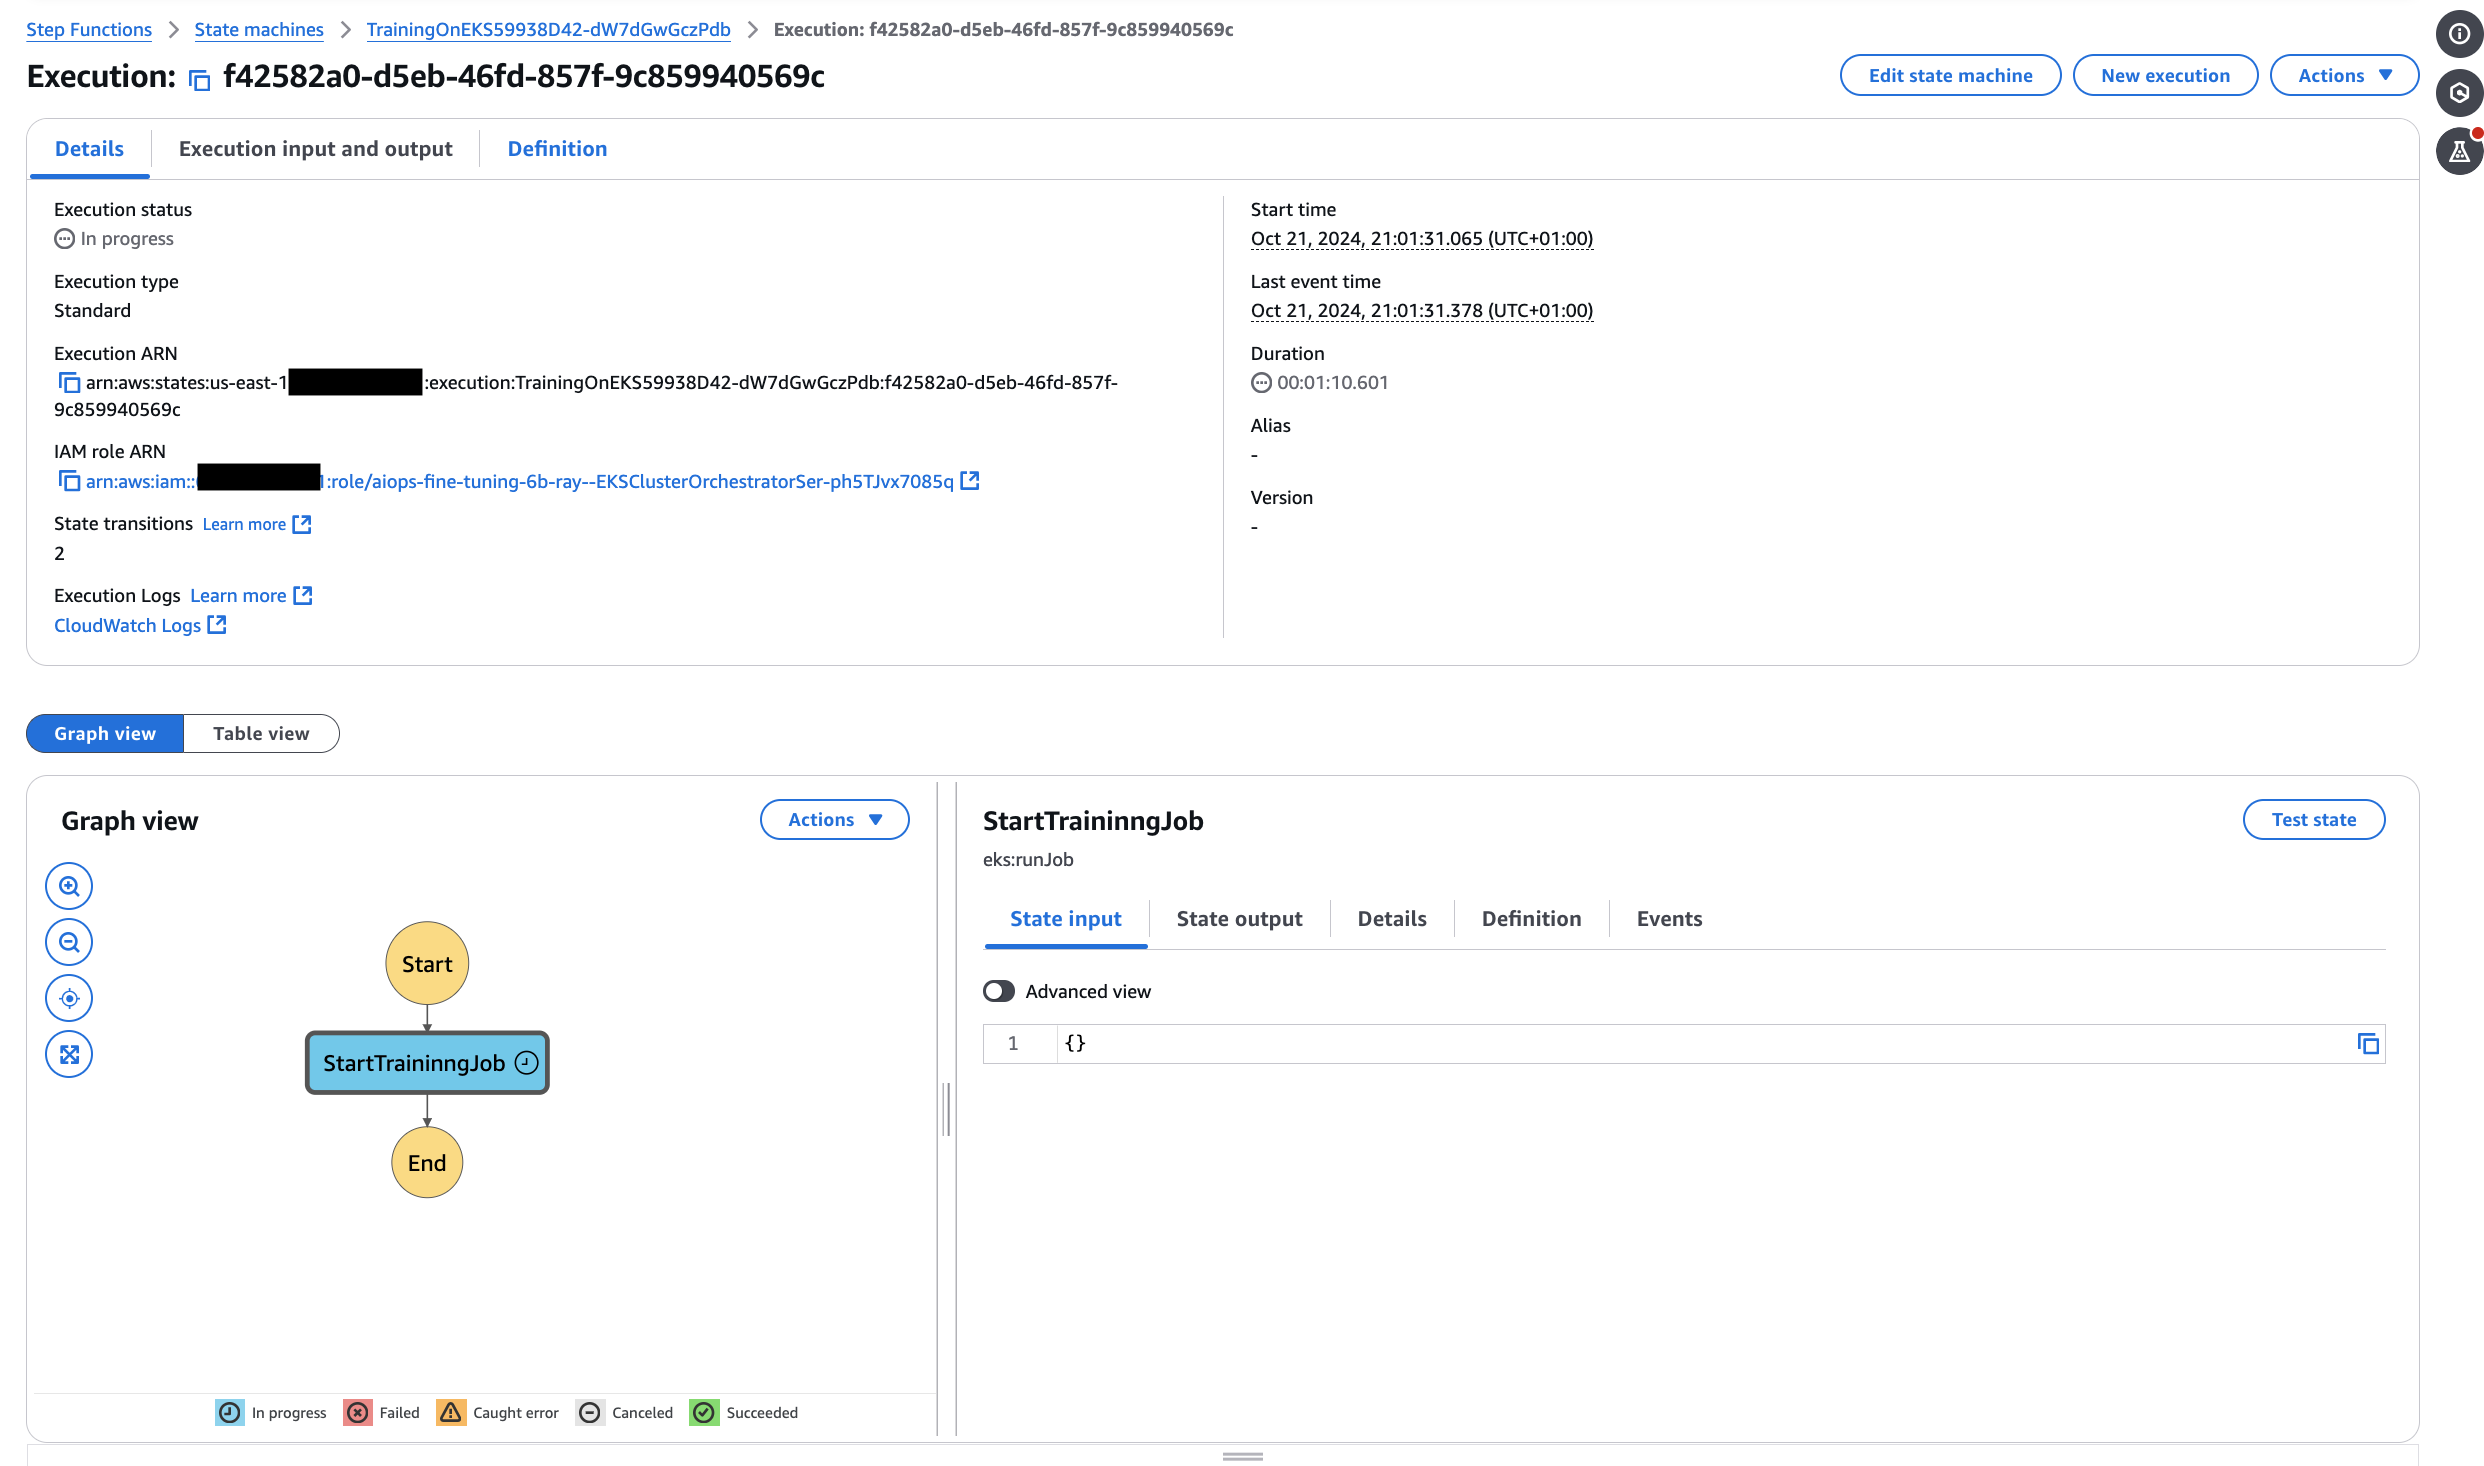
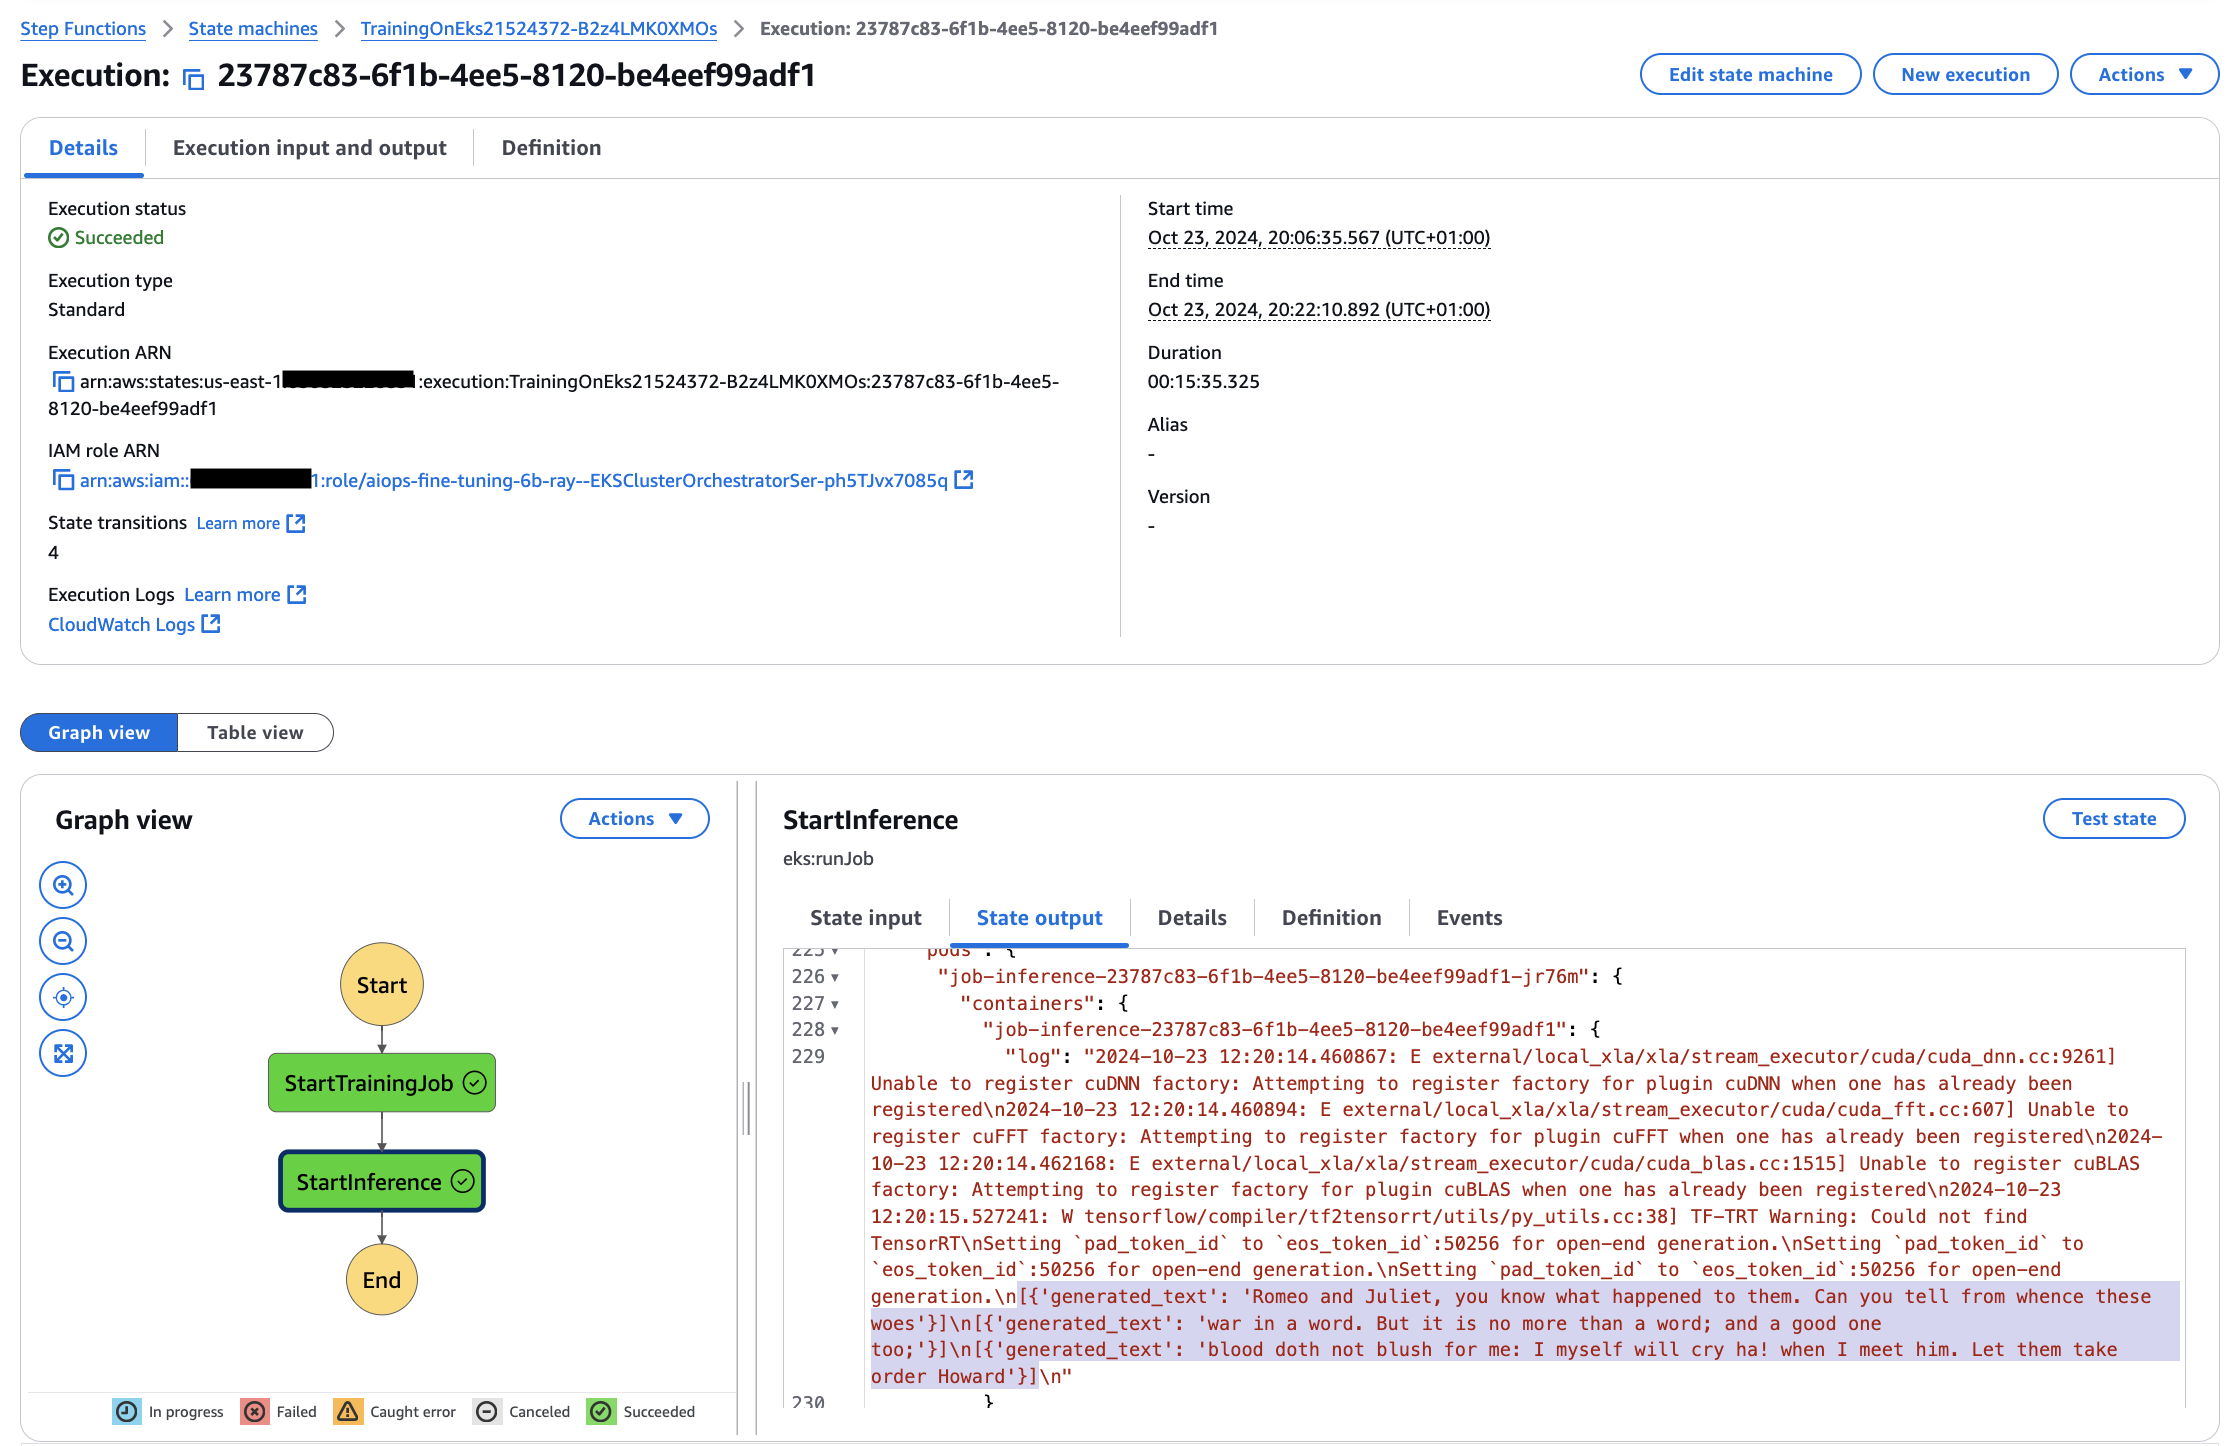
feat: ray orchestrator - add inference (#257)
* add inference

* add persistent volume claim

* add inference script

* update tests

* update docs

* update manifests

* update screenshots

diff --git a/modules/eks/ray-orchestrator/ray_orchestrator_stack.py b/modules/eks/ray-orchestrator/ray_orchestrator_stack.py
@@ -3,7 +3,7 @@
 
 import logging
 import os
-from typing import Any, cast
+from typing import Any, Optional, cast
 
 from aws_cdk import Duration, Stack, Tags
 from aws_cdk import aws_eks as eks
@@ -36,6 +36,8 @@ class RayOrchestrator(Stack):
         step_function_timeout: int,
         service_account_name: str,
         service_account_role_arn: str,
+        pvc_name: Optional[str],
+        dra_export_path: str,
         **kwargs: Any,
     ) -> None:
         self.project_name = project_name
@@ -66,8 +68,12 @@ class RayOrchestrator(Stack):
             kubectl_layer=KubectlV29Layer(self, "Kubectlv29Layer"),
         )
 
+        service_account_role = iam.Role.from_role_arn(self, "ServiceAccountRole", service_account_role_arn)
+
         with open(os.path.join(project_dir, "scripts/training-6B.py"), "r") as f:
-            ray_job_file = f.read()
+            training_job_file = f.read()
+        with open(os.path.join(project_dir, "scripts/inference-6B.py"), "r") as f:
+            inference_job_file = f.read()
 
         cluster.add_manifest(
             "RayJobConfigMap",
@@ -78,18 +84,19 @@ class RayOrchestrator(Stack):
                     "name": "rayjob",
                     "namespace": namespace_name,
                 },
-                "data": {"job.py": ray_job_file},
+                "data": {
+                    "training-6B.py": training_job_file,
+                    "inference-6B.py": inference_job_file,
+                },
             },
         )
 
-        service_account_role = iam.Role.from_role_arn(self, "ServiceAccountRole", service_account_role_arn)
-
-        body = {
+        training_body = {
             "apiVerson": "batch/v1",
             "kind": "Job",
             "metadata": {
                 "namespace": namespace_name,
-                "name.$": "States.Format('job-{}', $$.Execution.Name)",
+                "name.$": "States.Format('job-training-{}', $$.Execution.Name)",
             },
             "spec": {
                 "backoffLimit": 1,
@@ -99,7 +106,7 @@ class RayOrchestrator(Stack):
                         "serviceAccountName": service_account_name,
                         "containers": [
                             {
-                                "name.$": "States.Format('job-{}', $$.Execution.Name)",
+                                "name.$": "States.Format('job-training-{}', $$.Execution.Name)",
                                 "image": "python:3.9.19",
                                 "command": [
                                     "sh",
@@ -107,7 +114,7 @@ class RayOrchestrator(Stack):
                                     (
                                         'pip install ray"[default,client]"==2.30.0 && cd /home/ray/sample/ && '
                                         "ray job submit --address ray://kuberay-head-svc:10001 "
-                                        '--working-dir="." -- python job.py'
+                                        '--working-dir="." -- python training-6B.py'
                                     ),
                                 ],
                                 "volumeMounts": [{"name": "code-sample", "mountPath": "/home/ray/sample"}],
@@ -116,7 +123,10 @@ class RayOrchestrator(Stack):
                         "volumes": [
                             {
                                 "name": "code-sample",
-                                "configMap": {"name": "rayjob", "items": [{"key": "job.py", "path": "job.py"}]},
+                                "configMap": {
+                                    "name": "rayjob",
+                                    "items": [{"key": "training-6B.py", "path": "training-6B.py"}],
+                                },
                             }
                         ],
                     },
@@ -124,7 +134,62 @@ class RayOrchestrator(Stack):
             },
         }
 
-        ek_run_job_state = sfn.CustomState(
+        volumes = [
+            {
+                "name": "code-sample",
+                "configMap": {"name": "rayjob", "items": [{"key": "inference-6B.py", "path": "inference-6B.py"}]},
+            }
+        ]
+        volume_mounts = [{"name": "code-sample", "mountPath": "/home/ray/sample"}]
+
+        # Mount the PVC to inference container to read model artifacts
+        if pvc_name:
+            volumes.append({"name": "persistent-storage", "persistentVolumeClaim": {"claimName": pvc_name}})
+            # subPath should never start with `/`
+            volume_mounts.append(
+                {"mountPath": dra_export_path, "name": "persistent-storage", "subPath": dra_export_path[1:]}
+            )
+
+        inference_body = {
+            "apiVerson": "batch/v1",
+            "kind": "Job",
+            "metadata": {
+                "namespace": namespace_name,
+                "name.$": "States.Format('job-inference-{}', $$.Execution.Name)",
+            },
+            "spec": {
+                "backoffLimit": 1,
+                "template": {
+                    "spec": {
+                        "restartPolicy": "Never",
+                        "serviceAccountName": service_account_name,
+                        "containers": [
+                            {
+                                "name.$": "States.Format('job-inference-{}', $$.Execution.Name)",
+                                "image": "rayproject/ray-ml:2.30.0",
+                                "command": [
+                                    "sh",
+                                    "-c",
+                                    ("cd /home/ray/sample/ && " "python inference-6B.py"),
+                                ],
+                                "volumeMounts": volume_mounts,
+                            }
+                        ],
+                        "volumes": volumes,
+                        "nodeSelector": {"usage": "gpu"},
+                        "tolerations": [
+                            {
+                                "key": "nvidia.com/gpu",
+                                "value": "true",
+                                "effect": "NoSchedule",
+                            }
+                        ],
+                    },
+                },
+            },
+        }
+
+        ek_run_training_job_state = sfn.CustomState(
             self,
             "StartTrainingJob",
             state_json={
@@ -136,7 +201,24 @@ class RayOrchestrator(Stack):
                     "CertificateAuthority": eks_cert_auth_data,
                     "Endpoint": eks_cluster_endpoint,
                     "LogOptions": {"RetrieveLogs": True},
-                    "Job": body,
+                    "Job": training_body,
+                },
+            },
+        )
+
+        ek_run_inference_job_state = sfn.CustomState(
+            self,
+            "StartInference",
+            state_json={
+                "Type": "Task",
+                "Resource": "arn:aws:states:::eks:runJob.sync",
+                "Parameters": {
+                    "ClusterName": eks_cluster_name,
+                    "Namespace": namespace_name,
+                    "CertificateAuthority": eks_cert_auth_data,
+                    "Endpoint": eks_cluster_endpoint,
+                    "LogOptions": {"RetrieveLogs": True},
+                    "Job": inference_body,
                 },
             },
         )
@@ -146,7 +228,9 @@ class RayOrchestrator(Stack):
         self.sm = sfn.StateMachine(  # noqa: F841
             self,
             "TrainingOnEks",
-            definition_body=sfn.DefinitionBody.from_chainable(sfn.Chain.start(ek_run_job_state)),
+            definition_body=sfn.DefinitionBody.from_chainable(
+                sfn.Chain.start(ek_run_training_job_state).next(ek_run_inference_job_state)
+            ),
             timeout=Duration.minutes(int(step_function_timeout)),
             logs=sfn.LogOptions(destination=self.log_group, level=sfn.LogLevel.ALL),
             role=service_account_role,

diff --git a/modules/eks/ray-orchestrator/tests/test_stack.py b/modules/eks/ray-orchestrator/tests/test_stack.py
@@ -77,6 +77,8 @@ def ray_orchestrator_stack(rbac_stack, stack_defaults) -> cdk.Stack:
     step_function_timeout = 60
     service_account_name = "service-account"
     service_account_role_arn = "arn:aws:iam::123456789012:role/XXXXXXXX"
+    pvc_name = "pvc"
+    dra_export_path = "/ray/export"
 
     return ray_orchestrator_stack.RayOrchestrator(
         scope=app,
@@ -93,6 +95,8 @@ def ray_orchestrator_stack(rbac_stack, stack_defaults) -> cdk.Stack:
         step_function_timeout=step_function_timeout,
         service_account_name=service_account_name,
         service_account_role_arn=service_account_role_arn,
+        pvc_name=pvc_name,
+        dra_export_path=dra_export_path,
         env=cdk.Environment(
             account=os.environ["CDK_DEFAULT_ACCOUNT"],
             region=os.environ["CDK_DEFAULT_REGION"],

diff --git a/modules/eks/ray-orchestrator/scripts/inference-6B.py b/modules/eks/ray-orchestrator/scripts/inference-6B.py
@@ -1,0 +1,22 @@
+import glob
+
+import torch
+from transformers import AutoTokenizer, GPTJForCausalLM, pipeline
+
+# Get the latest checkpoint path
+checkpoint_path = list(glob.iglob("/ray/export/TorchTrainer_*/TorchTrainer_*/checkpoint_*/checkpoint"))[-1]
+
+model = GPTJForCausalLM.from_pretrained(checkpoint_path)
+tokenizer = AutoTokenizer.from_pretrained(checkpoint_path)
+
+pipe = pipeline(
+    model=model,
+    tokenizer=tokenizer,
+    task="text-generation",
+    torch_dtype=torch.float16,
+    device_map="auto",
+)
+
+# Generate from prompts!
+for sentence in pipe(["Romeo and Juliet", "war", "blood"], do_sample=True, min_length=20):
+    print(sentence)

diff --git a/modules/eks/ray-orchestrator/app.py b/modules/eks/ray-orchestrator/app.py
@@ -45,6 +45,8 @@ ray_orchestrator_stack = RayOrchestrator(
     step_function_timeout=app_settings.parameters.step_function_timeout,
     service_account_name=rbac_stack.service_account.service_account_name,
     service_account_role_arn=rbac_stack.service_account.role.role_arn,
+    pvc_name=app_settings.parameters.pvc_name,
+    dra_export_path=app_settings.parameters.dra_export_path,
     env=env,
 )
 

diff --git a/modules/eks/ray-orchestrator/settings.py b/modules/eks/ray-orchestrator/settings.py
@@ -36,6 +36,8 @@ class SeedFarmerParameters(CdkBaseSettings):
     eks_cert_auth_data: str
     step_function_timeout: int = Field(default=360)
     data_bucket_name: Optional[str] = Field(default=None)
+    pvc_name: Optional[str] = Field(default=None)
+    dra_export_path: str = Field(default="/ray/export/")
     tags: Optional[Dict[str, str]] = Field(default=None)
 
 

diff --git a/modules/eks/ray-orchestrator/README.md b/modules/eks/ray-orchestrator/README.md
@@ -2,7 +2,7 @@
 
 ## Description
 
-This module orchestrates submission of a training job to the Ray Cluster using AWS Step Functions.
+This module orchestrates submission of a Ray training job to the Ray Cluster and an inference job using AWS Step Functions.
 
 ## Inputs/Outputs
 
@@ -22,6 +22,8 @@ This module orchestrates submission of a training job to the Ray Cluster using A
 
 - `step_function_timeout` - Step function timeout in minutes. Defaults to `360`
 - `data_bucket_name` - Name of the bucket to grant service account permissions to
+- `pvc_name` - Persistent volume claim name. Empty by defeault. If no PVC is provided, the volume will not be mounted.
+- `dra_export_path` - Persistent volume mount path. Defaults to `/ray/export/`. Must start with a `/`.
 - `tags` - A dictionary of additional tags to apply to all resources. Defaults to None
 
 ## User Guide
@@ -111,6 +113,15 @@ parameters:
         group: base
         name: buckets
         key: ArtifactsBucketName
+  - name: PvcName
+    valueFrom:
+      moduleMetadata:
+        group: integration
+        name: lustre-on-eks
+        key: PersistentVolumeClaimName
+  - name: DraExportPath
+    valueFrom:
+      parameterValue: draExportPath
 ```
 
 ## Module Metadata Outputs
